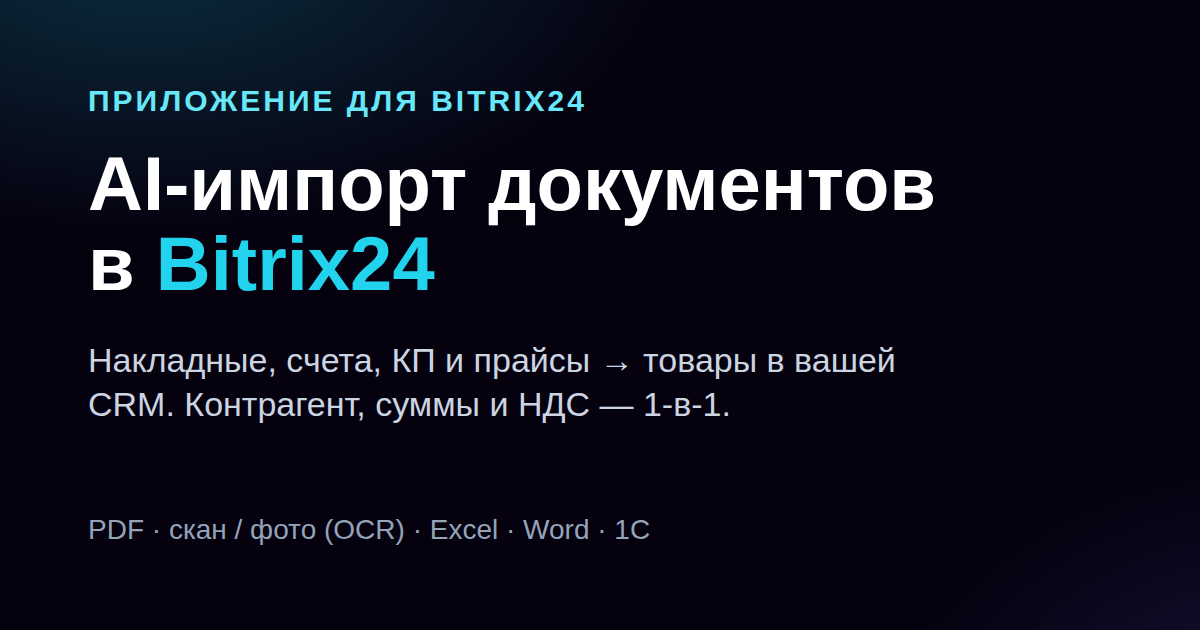
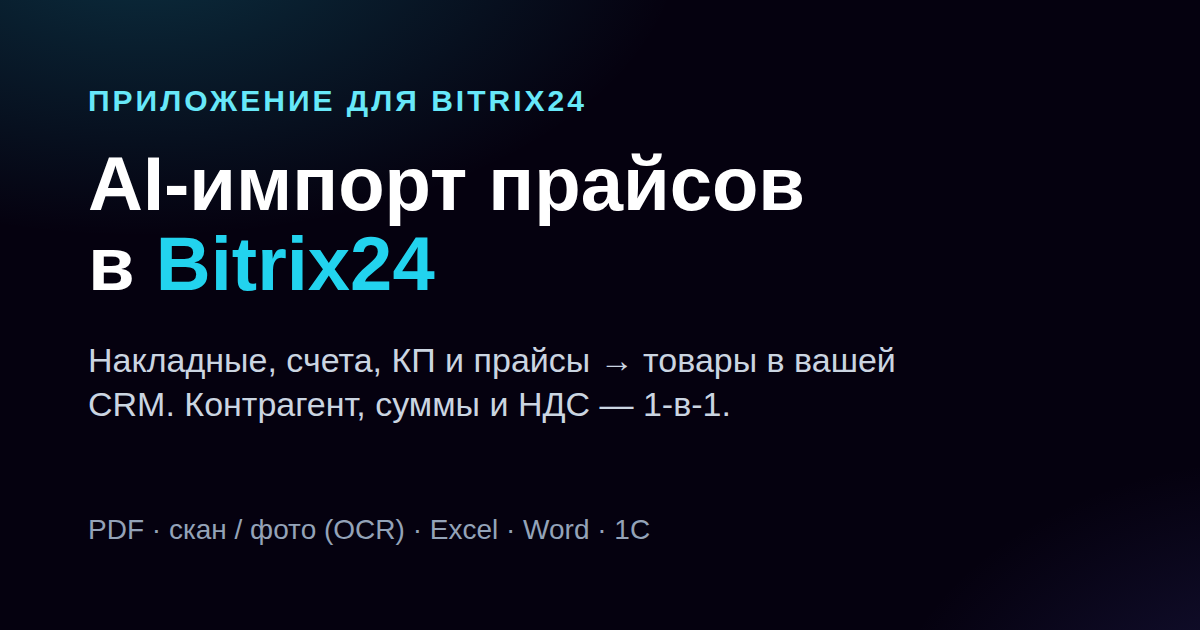
fix(#332+feedback): SSRF/DoS-фиксы ревьюеров + двойной https + Замечания + 👍-файл + ссылка-на-сущность
Security-фиксы 5 проверяющих (#332 byte-upload):
- diskDownload: redirect:'manual' (не следуем редиректу портала off-host → SSRF),
  AbortSignal.timeout 15с, СТРИМИНГ с ранним кап-абортом (не буферим весь body в RAM).
- Тесты: стриминг-кап, редирект→null, NAME-fallback, getDiskFileId, commitFeedbackFile
  (нет html_url), feedbackFilePath (кап длины). verify:332 — коммент-скоуп уточнён (OAuth
  путь верифицировать на портале).

Баги с пилота:
- Двойной https:// в ссылках: absPortalUrl (сущность в отзыве) + ImportJobItem-фолбэк —
  стрипаем схему у фрейм-домена. Тест.
- «Замечания» в отзыве обрезались (300) → кап 4000 + многострочный fenced-блок (весь
  список warnings). notes join '\n'. Тесты.
- 👍 теперь тоже прикладывает файл (как 👎) — владелец хочет документ на позитиве.
- «Открыть в CRM · сущность #id» — теперь видимая ссылка <a href> (копируемая), клик —
  как раньше (слайдер openPath, @click.prevent).

Переименование: OG-картинка перегенерирована («AI-импорт прайсов»); штампы Last reviewed
CLAUDE.md/privacy-policy бампнуты.

lint+typecheck+1052 теста зелёные.

Claude-Session: https://claude.ai/code/session_01V8gChVMGE9cH7dofTc1UaH

Changed region(s): [[0.4008, 0.2413, 0.8017, 0.3619]]

diff --git a/tests/diskDownload.test.ts b/tests/diskDownload.test.ts
@@ -13,45 +13,79 @@ function fakeCall(info: unknown): RestCall {
   }
 }
 
-/** Fake binary fetch returning bytes for a matching url. */
-function fakeFetch(bytes: Uint8Array, status = 200): BinaryFetchFn {
-  return async () => ({ ok: status === 200, status, arrayBuffer: async () => bytes.buffer.slice(bytes.byteOffset, bytes.byteOffset + bytes.byteLength) })
+/** One-chunk async body. */
+async function* oneChunk(b: Uint8Array): AsyncIterable<Uint8Array> {
+  yield b
+}
+/** Multi-chunk async body (to exercise the streaming cap). */
+async function* chunks(...cs: Uint8Array[]): AsyncIterable<Uint8Array> {
+  for (const c of cs) yield c
+}
+
+/** Fake binary fetch streaming `body` for a 200; body null on non-200. */
+function fakeFetch(body: AsyncIterable<Uint8Array> | null, status = 200): BinaryFetchFn {
+  return async () => ({ ok: status === 200, status, body: status === 200 ? body : null })
 }
 
 describe('downloadDiskFile', () => {
   const bytes = new Uint8Array([1, 2, 3, 4])
 
-  it('downloads bytes as base64 (name from NAME)', async () => {
-    const r = await downloadDiskFile(9, DOMAIN, fakeCall({ NAME: 'invoice.pdf', SIZE: 4, DOWNLOAD_URL: okUrl }), fakeFetch(bytes))
+  it('streams bytes to base64 (name from NAME)', async () => {
+    const r = await downloadDiskFile(9, DOMAIN, fakeCall({ NAME: 'invoice.pdf', SIZE: 4, DOWNLOAD_URL: okUrl }), fakeFetch(oneChunk(bytes)))
     expect(r).toEqual({ name: 'invoice.pdf', base64: Buffer.from(bytes).toString('base64'), size: 4 })
   })
 
-  it('SSRF guard: DOWNLOAD_URL on a DIFFERENT host → null (no fetch to a foreign host)', async () => {
+  it('reassembles multiple chunks', async () => {
+    const r = await downloadDiskFile(9, DOMAIN, fakeCall({ DOWNLOAD_URL: okUrl }),
+      fakeFetch(chunks(new Uint8Array([1, 2]), new Uint8Array([3, 4]))))
+    expect(Buffer.from(r!.base64, 'base64')).toEqual(Buffer.from([1, 2, 3, 4]))
+  })
+
+  it('NAME missing → fallback name file-<id>', async () => {
+    const r = await downloadDiskFile(42, DOMAIN, fakeCall({ SIZE: 4, DOWNLOAD_URL: okUrl }), fakeFetch(oneChunk(bytes)))
+    expect(r?.name).toBe('file-42')
+  })
+
+  it('SSRF guard: DOWNLOAD_URL on a DIFFERENT host → null (never fetched)', async () => {
     const evil = fakeCall({ NAME: 'x', SIZE: 4, DOWNLOAD_URL: 'https://evil.example.com/steal' })
     let fetched = false
     const fetchFn: BinaryFetchFn = async () => {
       fetched = true
-      return { ok: true, status: 200, arrayBuffer: async () => bytes.buffer }
+      return { ok: true, status: 200, body: oneChunk(bytes) }
     }
     expect(await downloadDiskFile(9, DOMAIN, evil, fetchFn)).toBeNull()
     expect(fetched).toBe(false)
   })
 
-  it('bad id / missing url / non-200 / empty / oversize → null', async () => {
-    expect(await downloadDiskFile(0, DOMAIN, fakeCall({ DOWNLOAD_URL: okUrl }), fakeFetch(bytes))).toBeNull()
-    expect(await downloadDiskFile(9, DOMAIN, fakeCall({ NAME: 'x' }), fakeFetch(bytes))).toBeNull() // no url
-    expect(await downloadDiskFile(9, DOMAIN, fakeCall({ DOWNLOAD_URL: okUrl }), fakeFetch(bytes, 404))).toBeNull()
-    expect(await downloadDiskFile(9, DOMAIN, fakeCall({ DOWNLOAD_URL: okUrl }), fakeFetch(new Uint8Array(0)))).toBeNull()
-    // declared SIZE over the cap → rejected before fetching
-    expect(await downloadDiskFile(9, DOMAIN, fakeCall({ DOWNLOAD_URL: okUrl, SIZE: 99 }), fakeFetch(bytes), { maxBytes: 3 })).toBeNull()
+  it('streaming cap: body exceeding maxBytes → null (aborts, does not buffer)', async () => {
+    // declared SIZE is small/absent but the stream is oversized — the POST-read streaming cap catches it.
+    const big = fakeFetch(chunks(new Uint8Array(3), new Uint8Array(3))) // 6 bytes, cap 4
+    expect(await downloadDiskFile(9, DOMAIN, fakeCall({ DOWNLOAD_URL: okUrl }), big, { maxBytes: 4 })).toBeNull()
+  })
+
+  it('declared SIZE over the cap → null before fetching', async () => {
+    let fetched = false
+    const fetchFn: BinaryFetchFn = async () => {
+      fetched = true
+      return { ok: true, status: 200, body: oneChunk(bytes) }
+    }
+    expect(await downloadDiskFile(9, DOMAIN, fakeCall({ DOWNLOAD_URL: okUrl, SIZE: 99 }), fetchFn, { maxBytes: 4 })).toBeNull()
+    expect(fetched).toBe(false)
+  })
+
+  it('bad id / missing url / non-200 (redirect) / empty body → null', async () => {
+    expect(await downloadDiskFile(0, DOMAIN, fakeCall({ DOWNLOAD_URL: okUrl }), fakeFetch(oneChunk(bytes)))).toBeNull()
+    expect(await downloadDiskFile(9, DOMAIN, fakeCall({ NAME: 'x' }), fakeFetch(oneChunk(bytes)))).toBeNull() // no url
+    expect(await downloadDiskFile(9, DOMAIN, fakeCall({ DOWNLOAD_URL: okUrl }), fakeFetch(null, 302))).toBeNull() // redirect:manual → 3xx
+    expect(await downloadDiskFile(9, DOMAIN, fakeCall({ DOWNLOAD_URL: okUrl }), fakeFetch(chunks()))).toBeNull() // empty
   })
 
   it('empty portal domain → null', async () => {
-    expect(await downloadDiskFile(9, '', fakeCall({ DOWNLOAD_URL: okUrl }), fakeFetch(bytes))).toBeNull()
+    expect(await downloadDiskFile(9, '', fakeCall({ DOWNLOAD_URL: okUrl }), fakeFetch(oneChunk(bytes)))).toBeNull()
   })
 
   it('accepts a domain given with scheme/trailing slash', async () => {
-    const r = await downloadDiskFile(9, 'https://portal.bitrix24.by/', fakeCall({ NAME: 'a', SIZE: 4, DOWNLOAD_URL: okUrl }), fakeFetch(bytes))
+    const r = await downloadDiskFile(9, 'https://portal.bitrix24.by/', fakeCall({ NAME: 'a', SIZE: 4, DOWNLOAD_URL: okUrl }), fakeFetch(oneChunk(bytes)))
     expect(r?.name).toBe('a')
   })
 })

diff --git a/app/utils/feedback.ts b/app/utils/feedback.ts
@@ -67,18 +67,31 @@ export interface FeedbackContext {
 }
 
 const MAX_CONTEXT_VALUE = 300
+/** «Замечания» (triage notes: every warning/error) is the actionable payload of a report — give it a
+ *  MUCH larger budget and preserve line breaks, so a 40-line invoice's «товар не найден» list isn't
+ *  clipped to the first ~300 chars. */
+export const MAX_NOTES_VALUE = 4000
 
 /**
- * One `- **Label:** `value`` line, rendered fully INERT. Client-supplied context values (fileName is
- * attacker-influenced — an uploaded document name) must not forge markdown into the issue body:
- *   - collapse interior CR/LF/tab (which `stripHostileChars` intentionally keeps) → a single space,
- *     so a value can't break out of its line and inject extra sections (the body is `join('\n')`d);
- *   - strip backticks, then wrap the value in an inline code span — inside a code span markdown
- *     metacharacters ([](), ![](), *, _, |, #) render literally, so no live links/images/formatting.
- * Empty value → null (omit the line entirely). Cap applied before wrapping.
+ * One `- **Label:** `value`` context line, rendered fully INERT. Client-supplied context values
+ * (fileName is attacker-influenced — an uploaded document name) must not forge markdown into the issue
+ * body:
+ *   - strip backticks always (so no ``` can escape a code span/fence);
+ *   - single-line fields collapse interior CR/LF/tab → one space and wrap in an inline code span;
+ *   - a `multiline` field keeps its line breaks and, when it spans lines, renders in a fenced block —
+ *     inside code spans/fences markdown metacharacters ([](), *, _, |, #) render literally (no live
+ *     links/images/formatting).
+ * Empty value → null (omit the line entirely). `cap` applied before wrapping.
  */
-function contextLine(label: string, value: unknown): string | null {
-  const flat = stripHostileChars(value).replace(/[\r\n\t]+/g, ' ').replace(/`/g, '').trim().slice(0, MAX_CONTEXT_VALUE)
+function contextLine(label: string, value: unknown, opts: { cap?: number, multiline?: boolean } = {}): string | null {
+  const cap = opts.cap ?? MAX_CONTEXT_VALUE
+  const noTicks = stripHostileChars(value).replace(/`/g, '')
+  if (opts.multiline) {
+    const kept = noTicks.replace(/\t/g, ' ').replace(/\r\n?/g, '\n').trim().slice(0, cap)
+    if (!kept) return null
+    return kept.includes('\n') ? `- **${label}:**\n\`\`\`\n${kept}\n\`\`\`` : `- **${label}:** \`${kept}\``
+  }
+  const flat = noTicks.replace(/[\r\n\t]+/g, ' ').trim().slice(0, cap)
   return flat ? `- **${label}:** \`${flat}\`` : null
 }
 
@@ -101,7 +114,7 @@ export function buildFeedbackIssue(kind: FeedbackKind, comment: unknown, context
   const contextLines = [
     contextLine('Статус разбора', context.status),
     contextLine('Исход', context.outcome),
-    contextLine('Замечания', context.notes),
+    contextLine('Замечания', context.notes, { cap: MAX_NOTES_VALUE, multiline: true }),
     contextLine('Задача (jobId)', context.jobId),
     contextLine('Файл', context.fileName),
     // #332: the actual source file, committed to the PRIVATE feedback repo (accessible to the

diff --git a/app/components/ImportJobItem.vue b/app/components/ImportJobItem.vue
@@ -1,5 +1,5 @@
 <script setup lang="ts">
-import { computed } from 'vue'
+import { computed, onMounted, ref } from 'vue'
 import type { ImportJobView } from '~/composables/useImport'
 import { jobStatusMeta, parseJobResult, pluralRu } from '~/utils/jobStatus'
 import { jobProgress } from '~/utils/jobStages'
@@ -22,6 +22,21 @@ const result = computed(() => parseJobResult(props.job.result))
 const { init: initB24, get: getFrame, auth: frameAuth, inFrame } = useB24()
 const entityPath = computed(() => entityDetailPath(result.value.entityTypeId, result.value.entityId))
 const canOpen = computed(() => !!entityPath.value && inFrame())
+// Real absolute portal URL so the result row shows a COPYABLE link (href), while the click still opens
+// the entity in a portal slider (@click.prevent → openEntity). `frameReady` re-evaluates the href once
+// the (singleton) frame handshake resolves — frameAuth() is not reactive on its own.
+const frameReady = ref(false)
+onMounted(async () => {
+  await initB24()
+  frameReady.value = true
+})
+const entityHref = computed<string | undefined>(() => {
+  void frameReady.value
+  const path = entityPath.value
+  if (!path) return undefined
+  const domain = (frameAuth()?.domain ?? '').replace(/^https?:\/\//i, '').replace(/\/+$/, '')
+  return domain ? `https://${domain}${path}` : undefined
+})
 async function openEntity(): Promise<void> {
   const path = entityPath.value
   if (!path) return
@@ -33,8 +48,9 @@ async function openEntity(): Promise<void> {
       return
     } catch { /* framed but the slider call threw → fall back to a plain new-tab open */ }
   }
-  // Fallback only reaches here framed (canOpen gated on inFrame), so the domain is available.
-  const domain = frameAuth()?.domain
+  // Fallback only reaches here framed (canOpen gated on inFrame), so the domain is available. The frame
+  // may report the domain WITH a scheme ("https://portal…") — strip it, else the URL doubles the scheme.
+  const domain = (frameAuth()?.domain ?? '').replace(/^https?:\/\//i, '').replace(/\/+$/, '')
   if (domain && typeof window !== 'undefined') window.open(`https://${domain}${path}`, '_blank', 'noopener')
 }
 
@@ -107,14 +123,14 @@ const stepDot: Record<string, string> = {
       class="text-xs text-(--ui-color-base-3)"
     >
       <div class="flex flex-wrap items-center gap-x-2 gap-y-0.5">
-        <button
+        <!-- Real portal URL (copyable) in href; click opens the entity in a portal slider (prevent
+             default so we don't also navigate the tab). -->
+        <a
           v-if="result.entityId && canOpen"
-          type="button"
+          :href="entityHref"
           class="font-medium text-(--ui-color-accent-main-success) hover:underline"
-          @click="openEntity"
-        >
-          Открыть в CRM · сущность #{{ result.entityId }} →
-        </button>
+          @click.prevent="openEntity"
+        >Открыть в CRM · сущность #{{ result.entityId }} →</a>
         <span
           v-else-if="result.entityId"
           class="text-(--ui-color-accent-main-success)"

diff --git a/server/utils/diskDownload.ts b/server/utils/diskDownload.ts
@@ -6,8 +6,10 @@ import type { RestCall } from './b24Rest'
 // it through the webhook — same REST method (`disk.file.get`), different transport. Best-effort: any
 // benign miss returns null and the caller just files the issue without the file.
 
-/** Binary fetch (FetchFn only exposes json()); prod passes globalThis.fetch, tests a fake. */
-export type BinaryFetchFn = (url: string) => Promise<{ ok: boolean, status: number, arrayBuffer: () => Promise<ArrayBuffer> }>
+/** Binary fetch exposing the response BODY as a byte stream (so we cap size WHILE reading, never
+ *  buffering an unbounded body into RAM). Prod passes a redirect:'manual' + timeout globalThis.fetch;
+ *  tests a fake. `body` is null on a non-body / redirect / error response. */
+export type BinaryFetchFn = (url: string) => Promise<{ ok: boolean, status: number, body: AsyncIterable<Uint8Array> | null }>
 
 export interface DownloadedFile { name: string, base64: string, size: number }
 
@@ -53,9 +55,20 @@ export async function downloadDiskFile(
   const declared = Number(info?.SIZE)
   if (Number.isFinite(declared) && declared > maxBytes) return null
   const res = await fetchFn(url)
-  if (!res.ok || res.status !== 200) return null
-  const buf = await res.arrayBuffer()
-  if (buf.byteLength === 0 || buf.byteLength > maxBytes) return null
+  // redirect:'manual' (prod) → a 3xx redirect surfaces as ok:false here, so we NEVER follow a portal's
+  // redirect off-host (SSRF); any non-200 / bodyless response → skip (best-effort).
+  if (!res.ok || res.status !== 200 || !res.body) return null
+  // Stream with an EARLY byte cap: never buffer an unbounded body. A portal that under-reports/omits
+  // SIZE and streams a huge (or slow) body is aborted as soon as the running total crosses the cap
+  // (breaking the for-await cancels the underlying stream).
+  const chunks: Uint8Array[] = []
+  let total = 0
+  for await (const chunk of res.body) {
+    total += chunk.byteLength
+    if (total > maxBytes) return null
+    chunks.push(chunk)
+  }
+  if (total === 0) return null
   const name = typeof info?.NAME === 'string' && info.NAME ? info.NAME : `file-${fileId}`
-  return { name, base64: Buffer.from(new Uint8Array(buf)).toString('base64'), size: buf.byteLength }
+  return { name, base64: Buffer.concat(chunks).toString('base64'), size: total }
 }

diff --git a/tests/feedback.test.ts b/tests/feedback.test.ts
@@ -14,6 +14,12 @@ describe('feedbackFilePath (#332 byte-upload repo path)', () => {
     expect(feedbackFilePath('a/b!', '')).toBe('files/ab/file')
     expect(feedbackFilePath('', '')).toBe('files/job/file')
   })
+  it('caps the jobId (64) and basename (80)', () => {
+    const p = feedbackFilePath('j'.repeat(100), `${'n'.repeat(100)}.pdf`)
+    const [, id, name] = p.split('/')
+    expect(id!.length).toBe(64)
+    expect(name!.length).toBe(80)
+  })
 })
 
 // Build hostile chars from code points (never type the invisible characters literally — that would
@@ -113,6 +119,14 @@ describe('feedback — buildFeedbackIssue', () => {
     expect(p.body).toContain('- **Исход:** `Сущность создана`')
     expect(p.body).toContain('- **Замечания:** `Поставщик не найден; Валюта XXX отсутствует`')
     expect(p.body).toContain('- **Исходный файл:** `https://bel.bitrix24.by/docs/file/123/`')
+  })
+  it('«Замечания»: keeps the FULL multi-line notes (big cap) in a fenced block, inert', () => {
+    const notes = Array.from({ length: 40 }, (_, i) => `Товар «позиция ${i}» не найден — строка пропущена`).join('\n')
+    expect(notes.length).toBeGreaterThan(300) // would be clipped by the old 300-char cap
+    const p = buildFeedbackIssue('down', 'плохо', { notes })
+    expect(p.body).toContain('Товар «позиция 0» не найден')
+    expect(p.body).toContain('Товар «позиция 39» не найден') // the LAST one survives (not clipped)
+    expect(p.body).toContain('- **Замечания:**\n```\n') // multi-line → fenced block
   })
   it('omits the Контекст section entirely when no context is given', () => {
     expect(buildFeedbackIssue('up', 'ok').body).not.toContain('**Контекст:**')

diff --git a/tests/nuxt/importJobItem.nuxt.test.ts b/tests/nuxt/importJobItem.nuxt.test.ts
@@ -39,21 +39,21 @@ describe('ImportJobItem', () => {
     expect(text).not.toContain('Создано в CRM')
   })
 
-  it('done with a created entity, STANDALONE (no frame) → plain «Создано в CRM» text, no button', async () => {
+  it('done with a created entity, STANDALONE (no frame) → plain «Создано в CRM» text, no link', async () => {
     framed.value = false
     const w = await mountSuspended(ImportJobItem, { props: { job: job('done', '{"entityTypeId":2,"entityId":5,"created":true,"warnings":[],"errors":[]}') } })
     expect(w.text()).toContain('Создано в CRM · сущность #5')
-    expect(w.find('button').exists()).toBe(false)
+    expect(w.find('a').exists()).toBe(false)
     // no progress bar once terminal
     expect(w.find('[aria-label^="Стадия:"]').exists()).toBe(false)
   })
 
-  it('done with a created entity, IN a frame → «Открыть в CRM» button (opens the entity)', async () => {
+  it('done with a created entity, IN a frame → «Открыть в CRM» link (opens the entity)', async () => {
     framed.value = true
     const w = await mountSuspended(ImportJobItem, { props: { job: job('done', '{"entityTypeId":2,"entityId":5,"created":true,"warnings":[],"errors":[]}') } })
-    const btn = w.find('button')
-    expect(btn.exists()).toBe(true)
-    expect(btn.text()).toContain('Открыть в CRM · сущность #5')
+    const link = w.find('a')
+    expect(link.exists()).toBe(true)
+    expect(link.text()).toContain('Открыть в CRM · сущность #5')
     framed.value = false
   })
 

diff --git a/tests/jobStore.test.ts b/tests/jobStore.test.ts
@@ -1,5 +1,5 @@
 import { describe, expect, it } from 'vitest'
-import { claimJobNotify, createJob, getDiskFileUrl, getJob, getManualOverride, setDiskFile, setJobStatus } from '../server/utils/jobStore'
+import { claimJobNotify, createJob, getDiskFileId, getDiskFileUrl, getJob, getManualOverride, setDiskFile, setJobStatus } from '../server/utils/jobStore'
 import { createMemoryJobRedis } from '../server/utils/jobStoreRedis'
 
 // The store logic is exercised over the in-memory JobRedis (same interface as the live ioredis
@@ -45,6 +45,18 @@ describe('jobStore (Redis-backed)', () => {
     // absent → null
     await createJob('m', 'j2', 'f.pdf', r)
     expect(await getDiskFileUrl('m', 'j2', r)).toBeNull()
+  })
+
+  it('getDiskFileId: returns the stored id, null when absent/invalid', async () => {
+    const r = createMemoryJobRedis()
+    await createJob('m', 'j1', 'f.pdf', r)
+    await setDiskFile('m', 'j1', { id: 7, detailUrl: 'https://x/docs/file/7/' }, r)
+    expect(await getDiskFileId('m', 'j1', r)).toBe(7)
+    // no diskFile → null
+    await createJob('m', 'j2', 'f.pdf', r)
+    expect(await getDiskFileId('m', 'j2', r)).toBeNull()
+    // unknown member/job → null
+    expect(await getDiskFileId('m', 'nope', r)).toBeNull()
   })
 
   it('claimJobNotify is once-only: first caller true, all later false', async () => {

diff --git a/server/api/feedback.post.ts b/server/api/feedback.post.ts
@@ -90,7 +90,13 @@ export default defineEventHandler(async (event) => {
               const diskId = await getDiskFileId(member.memberId, jobId, jobRedis)
               if (diskId) {
                 const call = makeBareTokenSdkCall(auth.domain, auth.accessToken)
-                const binFetch: BinaryFetchFn = url => (globalThis.fetch as typeof fetch)(url)
+                // redirect:'manual' — never follow a portal's redirect off-host (SSRF on the shared
+                // multitenant backend); AbortSignal.timeout — a slow/huge Disk body must not stall the
+                // 👍/👎 request. Body streamed + capped in downloadDiskFile.
+                const binFetch: BinaryFetchFn = async (url) => {
+                  const r = await (globalThis.fetch as typeof fetch)(url, { redirect: 'manual', signal: AbortSignal.timeout(15_000) })
+                  return { ok: r.ok, status: r.status, body: r.body as AsyncIterable<Uint8Array> | null }
+                }
                 const dl = await downloadDiskFile(diskId, auth.domain, call, binFetch)
                 if (dl) {
                   const commit = await commitFeedbackFile(

diff --git a/tests/nuxt/feedbackWidget.nuxt.test.ts b/tests/nuxt/feedbackWidget.nuxt.test.ts
@@ -41,7 +41,7 @@ describe('FeedbackWidget', () => {
     await w.find('button[aria-label="Хорошо"]').trigger('click')
     await tick()
     // 👍 stays instant and never attaches a file (consent lives in the 👎 box) → attachFile false.
-    expect(h.submit).toHaveBeenCalledWith('up', undefined, expect.any(Object), false)
+    expect(h.submit).toHaveBeenCalledWith('up', undefined, expect.any(Object), true)
     expect(w.text()).toContain('Спасибо')
   })
 
@@ -49,7 +49,7 @@ describe('FeedbackWidget', () => {
     const w = await mountSuspended(FeedbackWidget, { props: { jobId: 'job-7', fileName: 'счёт.xlsx' } })
     await w.find('button[aria-label="Хорошо"]').trigger('click')
     await tick()
-    expect(h.submit).toHaveBeenCalledWith('up', undefined, { jobId: 'job-7', fileName: 'счёт.xlsx' }, false)
+    expect(h.submit).toHaveBeenCalledWith('up', undefined, { jobId: 'job-7', fileName: 'счёт.xlsx' }, true)
   })
 
   it('👎 opens the comment box; the «Отправить» button sends with the comment', async () => {

diff --git a/tests/feedbackEntity.test.ts b/tests/feedbackEntity.test.ts
@@ -63,9 +63,9 @@ describe('resolveFeedbackOutcome (#192 п.1)', () => {
   it('done + not created → outcome «Сущность не создана»', () => {
     expect(resolveFeedbackOutcome(view({ created: false }), 'done').outcome).toBe('Сущность не создана')
   })
-  it('joins warnings + errors into notes', () => {
+  it('joins warnings + errors into notes, one per line (full list)', () => {
     const r = resolveFeedbackOutcome(view({ created: true, warnings: ['Поставщик не найден'], errors: ['Валюта XXX отсутствует'] }), 'done')
-    expect(r.notes).toBe('Поставщик не найден; Валюта XXX отсутствует')
+    expect(r.notes).toBe('Поставщик не найден\nВалюта XXX отсутствует')
   })
   it('bare error message (pre-crm-sync failure) → «Ошибка обработки» + message as notes', () => {
     const r = resolveFeedbackOutcome(view({ message: 'документ не найден' }), 'error')

diff --git a/app/components/FeedbackWidget.vue b/app/components/FeedbackWidget.vue
@@ -39,10 +39,12 @@ async function rate(kind: 'up' | 'down'): Promise<void> {
   error.value = ''
   try {
     // submit() returns false (without throwing) outside a portal frame — do NOT claim success.
+    // 👍 attaches the source file too (owner wants the document on positive reports for triage — same
+    // as 👎); 👎 respects the explicit «приложить файл» checkbox. Server attaches only if it was archived.
     const ok = await submit(kind, comment.value.trim() || undefined, {
       jobId: props.jobId,
       fileName: props.fileName
-    }, attachFile.value)
+    }, kind === 'up' ? true : attachFile.value)
     if (ok) {
       sent.value = true
       // Remember it locally so a reload doesn't re-ask for this job (the client is the dedup owner).

diff --git a/server/utils/feedbackEntity.ts b/server/utils/feedbackEntity.ts
@@ -84,7 +84,9 @@ export function resolveFeedbackOutcome(view: JobResultView, status: string): Fee
   if (meta.terminal && typeof view.created === 'boolean') {
     out.outcome = view.created ? 'Сущность создана' : 'Сущность не создана'
   }
-  const notes = [...view.warnings, ...view.errors].filter(Boolean).join('; ')
+  // One note per line (rendered as a fenced block in the issue) so the FULL warning/error list is
+  // legible, not clipped/run together — the triage notes are the actionable payload of a report.
+  const notes = [...view.warnings, ...view.errors].filter(Boolean).join('\n')
   if (notes) out.notes = notes
   return out
 }
